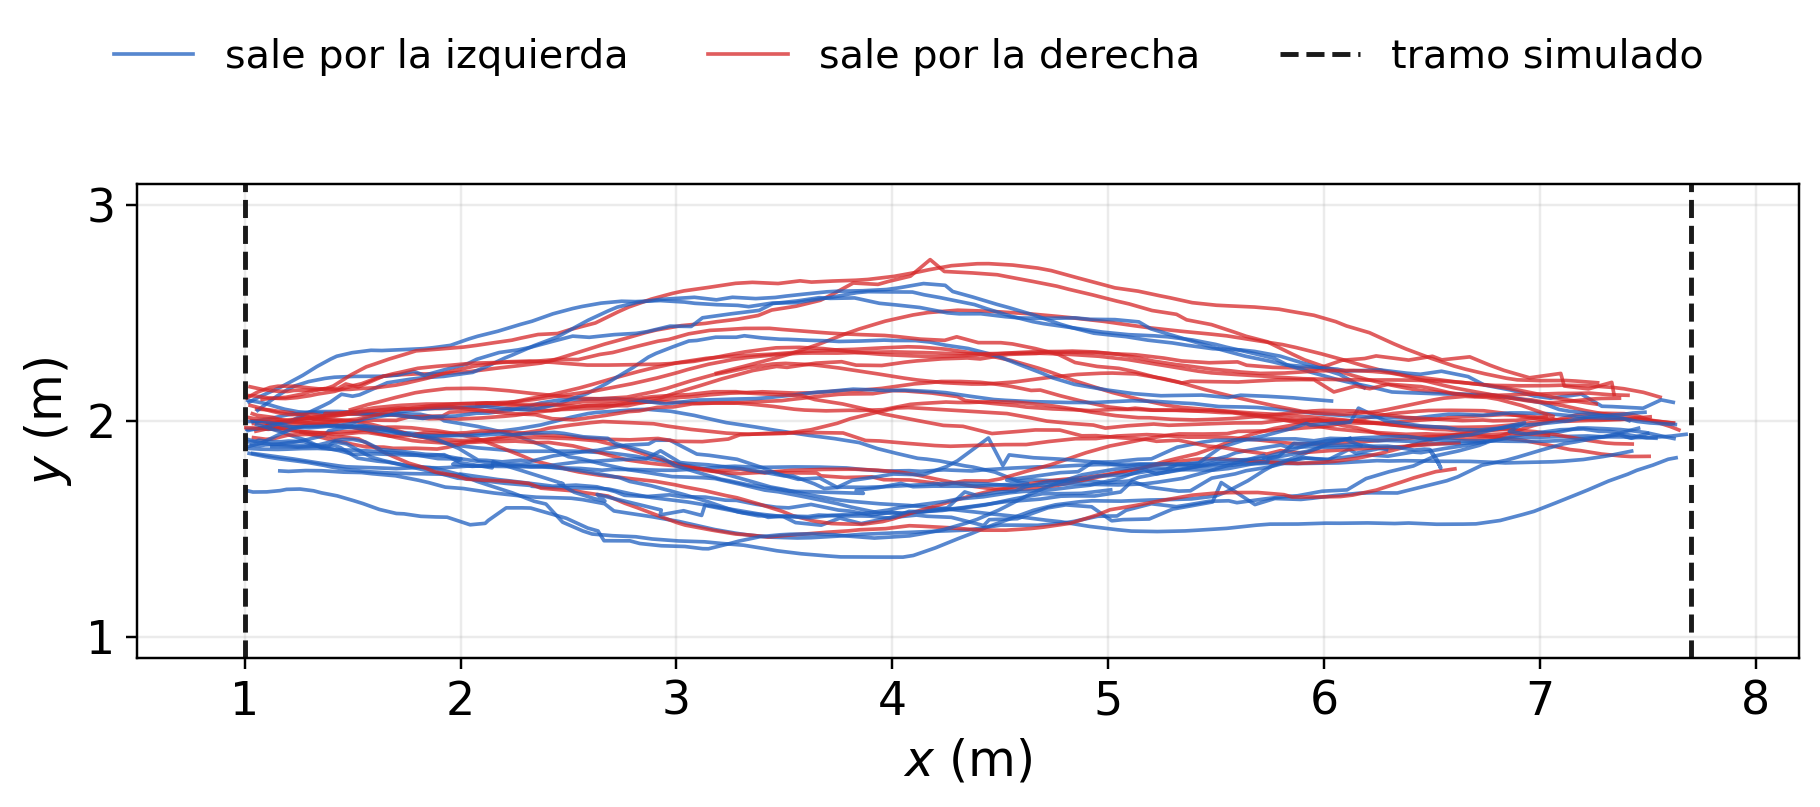
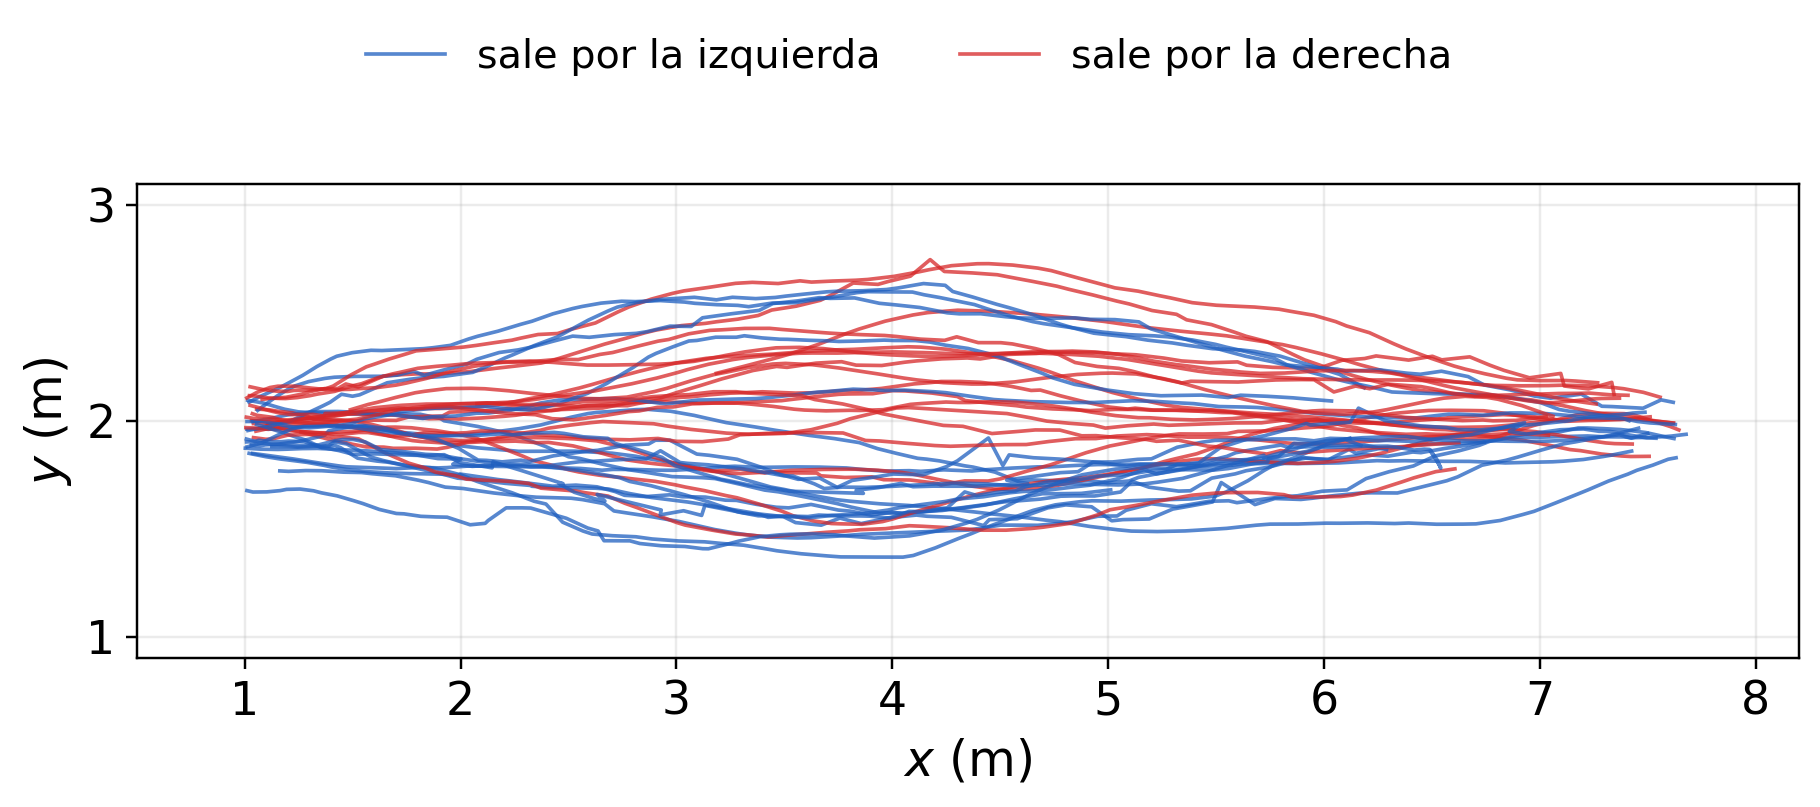
Trayectorias medidas: sólo el tramo seleccionado, sin las verticales

Changed region(s): [[0.1231, 0.031, 0.9538, 0.0929], [0.0615, 0.062, 0.0923, 0.0929]]

diff --git a/visualization/events.py b/visualization/events.py
@@ -33,8 +33,8 @@ def read_table(path):
 
 def trajectories(events: list[dict], tracks: dict, x_range, figures, style: str):
     """Las trayectorias medidas de todos los eventos en el plano, SOLO sobre
-    la ventana con la que se simula cada uno: el tramo del corredor entre las
-    dos verticales. Lo que queda afuera (la fila de cada lado, el codo con el
+    la ventana con la que se simula cada uno (el tramo x_range del corredor),
+    sin las verticales que lo marcaban. Lo que queda afuera (la fila de cada lado, el codo con el
     que cada peaton entra y sale de ella) no se dibuja: asi lo pidio la
     catedra el 13/11, mostrar solo el trayecto seleccionado."""
     common.use_style(style)
@@ -47,9 +47,6 @@ def trajectories(events: list[dict], tracks: dict, x_range, figures, style: str)
             axes.plot(used[:, 0], used[:, 1], color=common.EXPERIMENT_COLOR[side],
                       linewidth=1.2, alpha=0.75,
                       label=f"sale por la {name}" if index == 0 else None)
-    for k, edge in enumerate(x_range):
-        axes.axvline(edge, color="#1a1a1a", linestyle="--", linewidth=1.6,
-                     label="tramo simulado" if k == 0 else None)
     axes.set_xlabel(common.AXIS_X)
     axes.set_ylabel(common.AXIS_Y)
     axes.set_aspect("equal")
@@ -58,7 +55,7 @@ def trajectories(events: list[dict], tracks: dict, x_range, figures, style: str)
     axes.set_yticks([1, 2, 3])
     axes.set_ylim(0.9, 3.1)
     handles, names = axes.get_legend_handles_labels()
-    figure.legend(handles, names, loc="upper center", ncol=3, frameon=False,
+    figure.legend(handles, names, loc="upper center", ncol=2, frameon=False,
                   fontsize=plt.rcParams["legend.fontsize"], bbox_to_anchor=(0.5, 1.0))
     figure.tight_layout(rect=(0, 0, 1, 0.9))
     common.save(figure, common.folder("datos", figures) / f"eventos_trayectorias_{style}.png")

diff --git a/FEEDBACK.md b/FEEDBACK.md
@@ -177,7 +177,7 @@ que se pidió cambiar:
 | 1 | **El opcional de 4 parámetros está en un anuncio** (por eso no figura en el PDF del enunciado). | Se queda, con sus dos diapositivas (29 y 30). El `Makefile`, el README y `PLAN.md` §8 dicen de dónde sale. |
 | 2 | **El id 1000** de la prueba 2: no hay otra. | Confirmado; sin cambios (`experimental/eventos.txt`). |
 | 3 | En los cortes de `<E(1)>`, en el de **`t_a` hay que sacar la franja verde**. | `population.py` dibuja la franja de los valores que empatan sólo en el corte de `d_s`; en el de `t_a` queda la línea del óptimo (`slide-24` y `slide-26`). |
-| 4 | **Todo lo que sea "L" lo pueden borrar; recortar lo que importa.** La imagen que muestra qué parte del trayecto se seleccionó tiene que mostrar **sólo el trayecto seleccionado**. | `events.py` dibuja cada trayectoria sólo sobre la ventana de su evento, entre las dos verticales del tramo (`slide-03`). La fila y el codo con que cada peatón entra y sale de ella ya no aparecen. |
+| 4 | **Todo lo que sea "L" lo pueden borrar; recortar lo que importa.** La imagen que muestra qué parte del trayecto se seleccionó tiene que mostrar **sólo el trayecto seleccionado**. | `events.py` dibuja cada trayectoria sólo sobre la ventana de su evento, sobre el tramo, sin las verticales que lo marcaban (`slide-03`). La fila y el codo con que cada peatón entra y sale de ella ya no aparecen. |
 | 5 | **El evento 1**, en el que el rojo se para: se pueden **recortar los datos, no eliminarlo**. Hacerlo como estaba al principio: se simula sólo hasta que el primero de los dos desaparece. | Un cuadro sin muestra de alguno de los dos vuelve a cerrar la ventana (`trimToCorridor`): el evento 1 queda con `Nm = 42`. Se recalculó todo: mismos óptimos, `<E(1)>` de 0,0637 a 0,0617 m² y `<E(2)>` de 0,0193 a 0,0191 m²; la validación cruzada pasa de +35 % a +36 %. |
 | 6 | Mostrar **la trayectoria con mayor error, la de menor error y una sin la capa** de elusión (el mejor y el peor ajuste de los 19). | `representative.py` arma esos tres paneles (`slide-19`): el 14 (0,037 m²), el 17 (0,155 m²) y el 10 sin capa (1,91 m²). Los dos primeros los elige por `E(1)_m`. El evento 1 tiene un error menor (0,020) pero no compite: su ventana es más corta y por eso acumula menos error (`EXCLUIR_MEJOR` en el `Makefile`). **A confirmar por el grupo** si prefieren mostrar el 1. |
 | 7 | **Armar los dibujos de los modelos**, por ejemplo el momento en que colisionan. | Esquema nuevo `report/figuras/modelo-sfm.tikz` (`slide-04`): la fuerza de conducción (velocidad actual, velocidad deseada hacia el target y la fuerza que lleva una a la otra) y el contacto en el momento del choque (solapamiento `ξ`, versores normal y tangencial, la fuerza normal sobre cada disco). Va en la diapositiva del modelo, debajo de la ecuación. |
